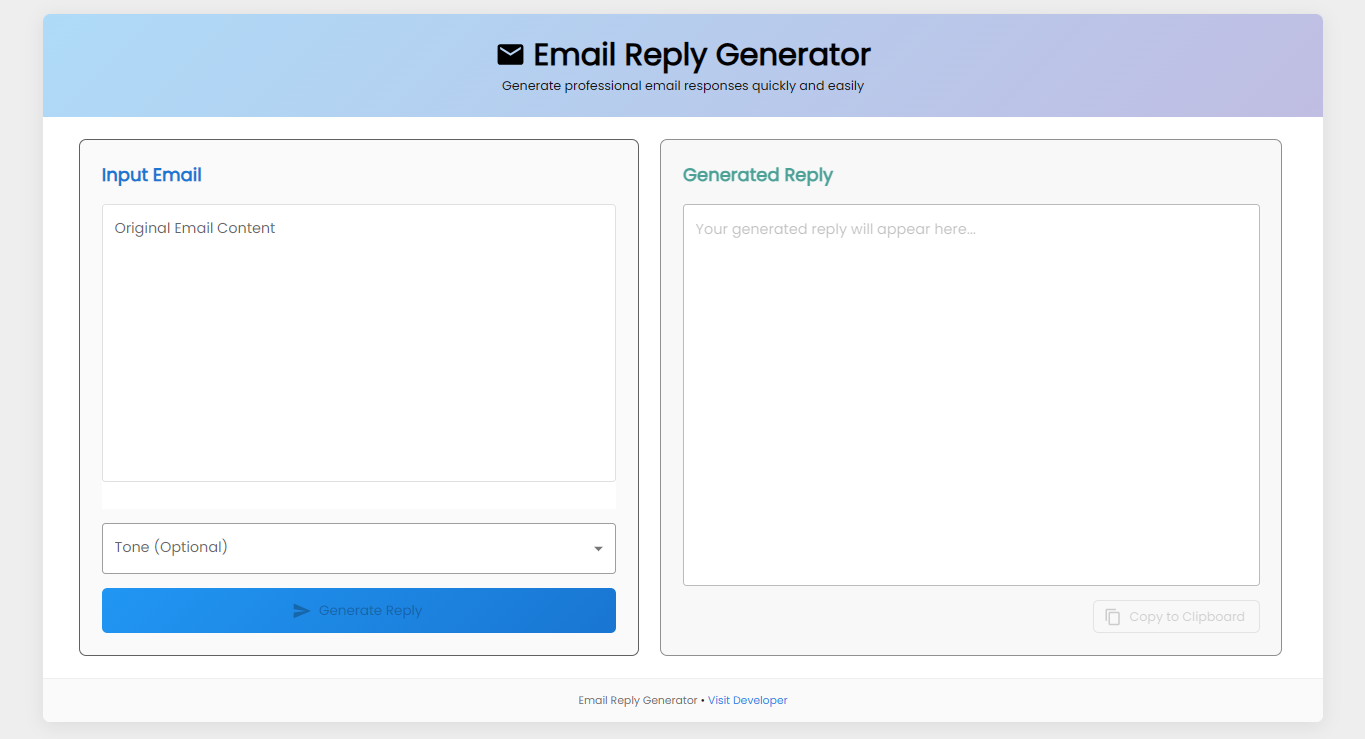
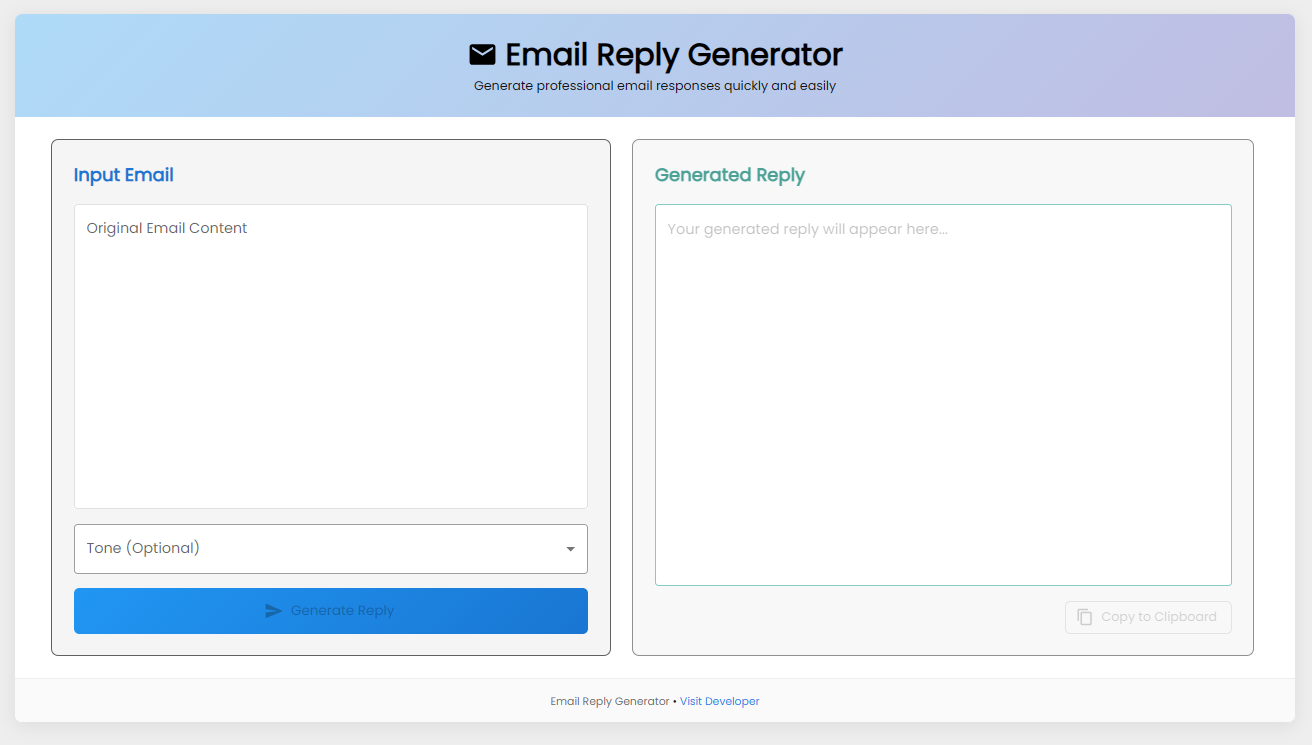
fixed margin

diff --git a/src/components/Body.jsx b/src/components/Body.jsx
@@ -95,7 +95,7 @@ const Body = () => {
                 display: "flex",
                 flexDirection: "column",
                 p: { xs: 1.5, sm: 2, md: 3 },
-                bgcolor: grey[50],
+                bgcolor: grey[100],
                 borderRadius: { xs: 1, sm: 2 },
                 border: `1px solid ${grey[700]}`,
                 transition: "box-shadow 0.3s ease",
@@ -120,7 +120,7 @@ const Body = () => {
               <TextField
                 fullWidth
                 multiline
-                rows={isMobile ? 7 : 12}
+                rows={isMobile ? 7 : 13.3}
                 variant="outlined"
                 label="Original Email Content"
                 placeholder="Paste the email you received here..."

diff --git a/src/components/Copied.jsx b/src/components/Copied.jsx
@@ -13,8 +13,8 @@ const Copied = ({ openSnackbar, setOpenSnackbar }) => {
       autoHideDuration={2000}
       onClose={handleCloseSnackbar}
       anchorOrigin={{
-        vertical: "bottom",
-        horizontal: isMobile ? "center" : "right",
+        vertical: isMobile ? "bottom" : "top",
+        horizontal: "center",
       }}
     >
       <Alert
